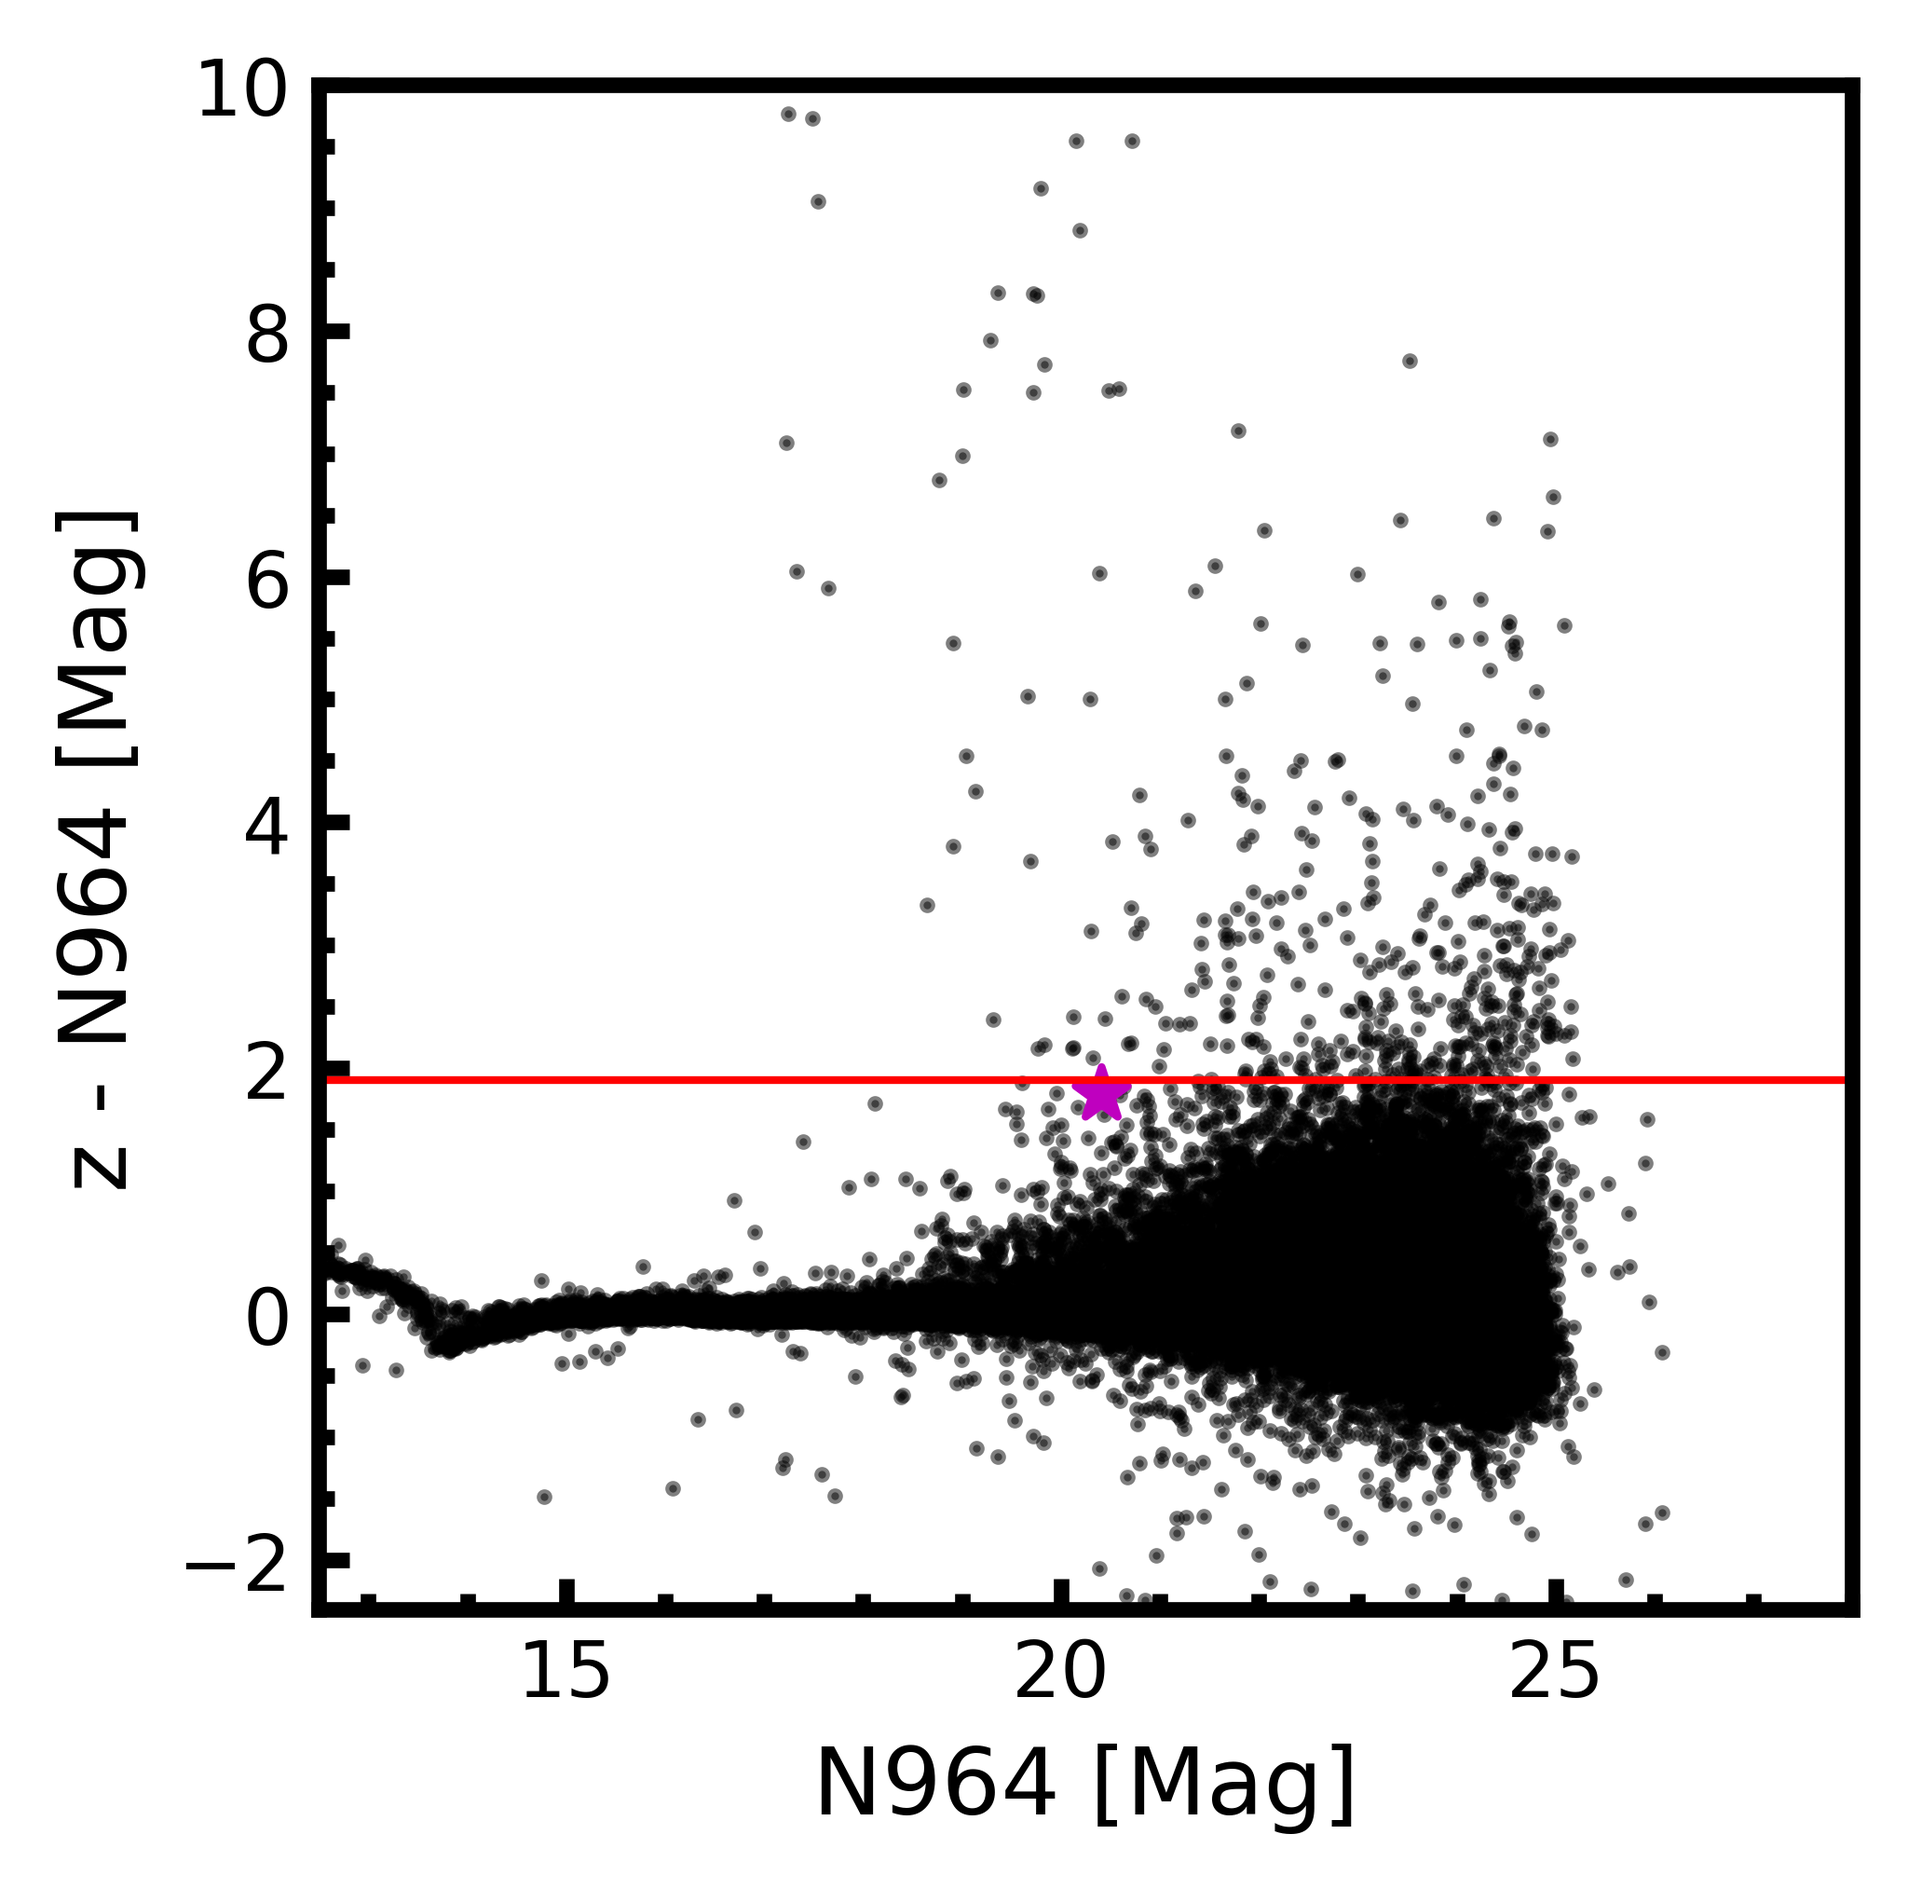
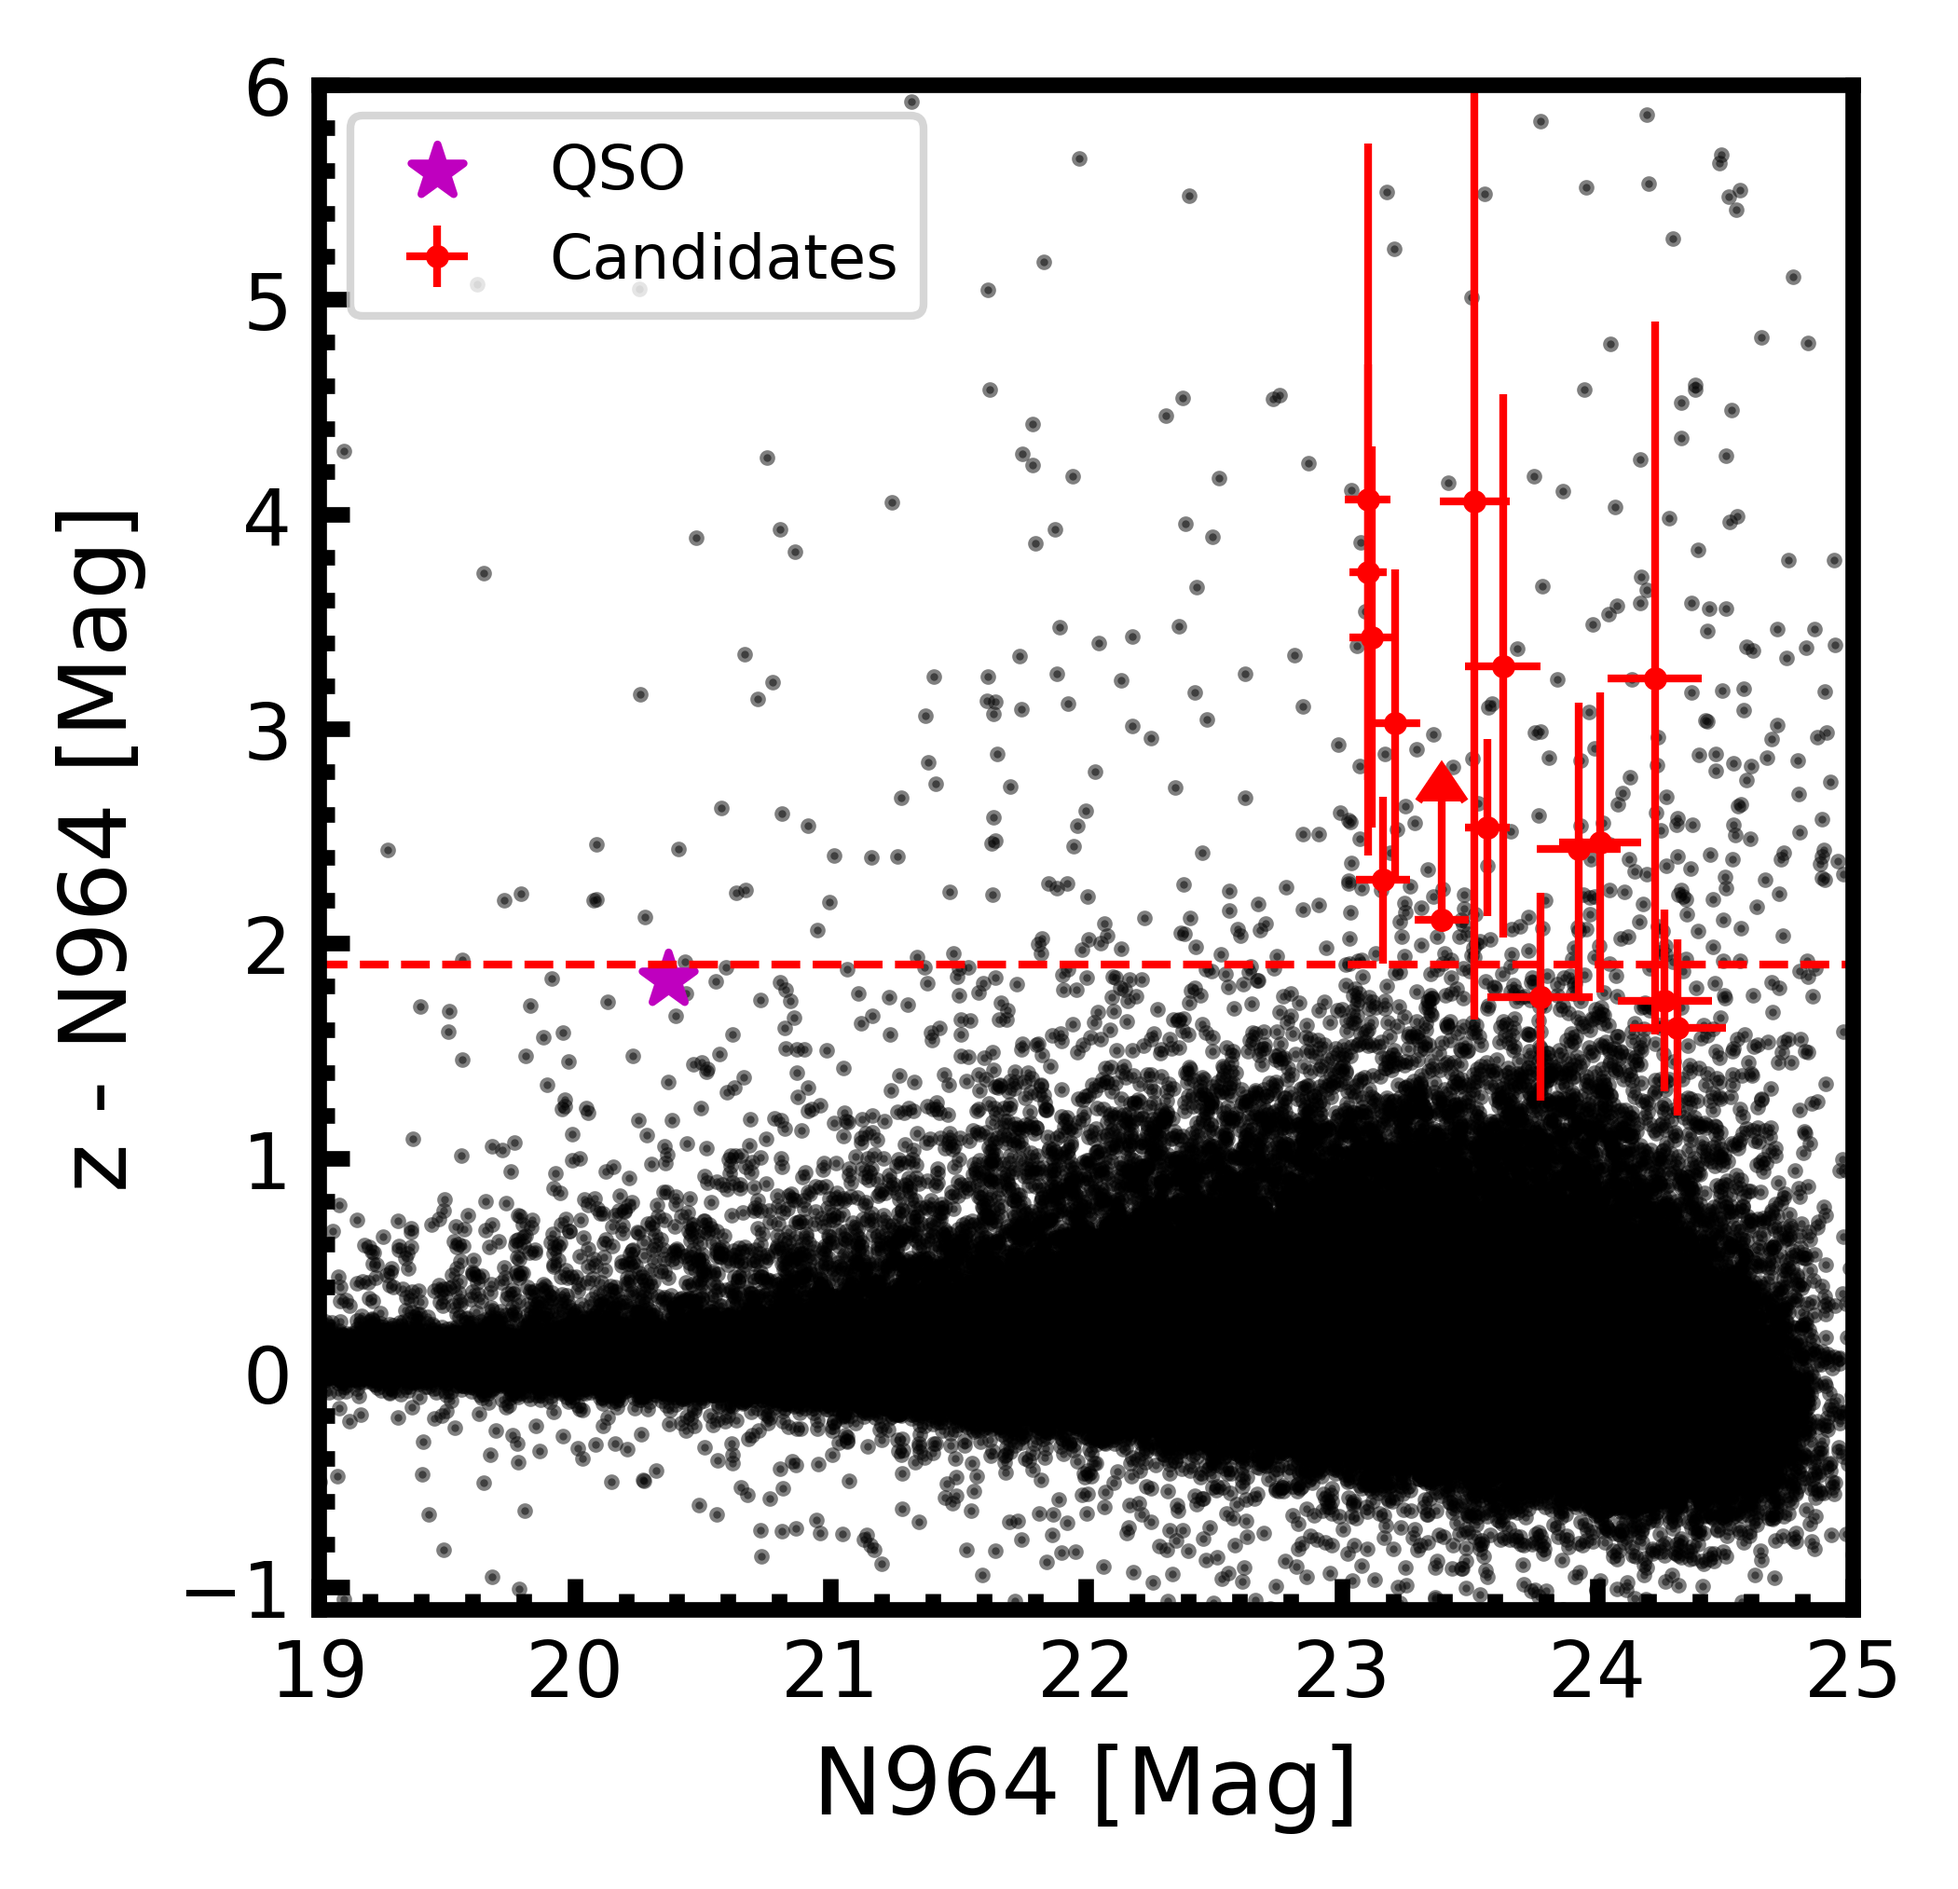
Updated the Hu plot.

diff --git a/hu_2019_plot.py b/hu_2019_plot.py
@@ -15,18 +15,33 @@ mpl.rc('xtick', labelsize=10)
 mpl.rc('ytick', labelsize=10)
 
 
-
-
-def read_in_test_cats(file_name: str):
+def read_in_cats(file_name: str):
     """read in the test cats for DECCAM"""
-    ra, dec, mag = np.loadtxt(file_name, unpack=True, usecols=(0, 1, 4))
-    return ra, dec, mag
-
+    ra, dec, mag, mag_err = np.loadtxt(file_name, unpack=True, usecols=(0, 1, 4, 5))
+    non_detections = np.where(mag == 99)[0]
+    detections = np.where(mag != 99)[0]
+    
+    mag[detections] = mag[detections] + MAG_ZPTS[FILES[file_name]]
+    mag_err[non_detections] = (2.5/np.log(10)) / 2 #factor of two is just for aesthitics
+    
+    return ra, dec , mag, mag_err
 
 MAG_ZPTS = {
     'z': 30.538,
-    'n964': 29.012,
+    'n964': 28.97,
     'i': 30.870,
+}
+
+LIMITING_MAGS = {
+    '../correct_stacks/N964/z.cat': 25.5,
+    '../correct_stacks/N964/i.cat': 25.5,
+    '../correct_stacks/N964/n964.cat': 25.0
+}
+
+FILES = {
+    '../correct_stacks/N964/z.cat': 'z',
+    '../correct_stacks/N964/n964.cat': 'n964',
+    '../correct_stacks/N964/i.cat': 'i'
 }
 
 if __name__ == '__main__':
@@ -35,53 +50,68 @@ if __name__ == '__main__':
     I_FILE = '../correct_stacks/N964/i.cat'
     RA_QSO = (23 + (48/60) + (33.34/3600)) * (360/24)
     DEC_QSO = (30 + (54/60) + (10.0/3600)) * -1
+    CANDIDATE_FILE = 'candidates.txt'
 
-    i_ra, i_dec, i_mag = read_in_test_cats(I_FILE)
-    z_ra, z_dec, z_mag = read_in_test_cats(Z_FILE)
-    n_ra, n_dec, n_mag = read_in_test_cats(N_FILE)
+    candidates_ra, candidates_dec = np.loadtxt(CANDIDATE_FILE, usecols=(1,2), unpack=True)
 
-    z_mag += MAG_ZPTS['z']
-    n_mag += MAG_ZPTS['n964']
-    i_mag += MAG_ZPTS['i']
+    i_ra, i_dec, i_mag, i_mag_err = read_in_cats(I_FILE)
+    z_ra, z_dec, z_mag, z_mag_err = read_in_cats(Z_FILE)
+    n_ra, n_dec, n_mag, n_mag_err = read_in_cats(N_FILE)
 
     catalog = SkyCoord(ra = n_ra*u.deg, dec = n_dec*u.deg)
-    c = SkyCoord(ra = RA_QSO * u.deg, dec = DEC_QSO * u.deg)
+    c = SkyCoord(ra = RA_QSO*u.deg, dec = DEC_QSO*u.deg)
     idx, d2d, _ = c.match_to_catalog_sky(catalog)
 
-    print(i_ra[idx], i_dec[idx])
-    print(d2d)
-    print(RA_QSO, DEC_QSO)
-    print('i: ', i_mag[idx])
-    print('z: ', z_mag[idx])
-    print('n964: ',n_mag[idx])
-    print('--------------')
-    print('i - n964: ', i_mag[idx] - n_mag[idx])
-    print('i - z: ', i_mag[idx] - z_mag[idx])
-    print('z - n964: ', z_mag[idx] - n_mag[idx])
+    c_candidates = SkyCoord(ra = candidates_ra*u.deg, dec = candidates_dec*u.deg)
+    idx_candidates, d2d_candidates, _ = c_candidates.match_to_catalog_sky(catalog)
+
+    non_detections_z = np.where(z_mag[idx_candidates] == 99)[0]
+    non_detections_i = np.where(i_mag[idx_candidates] == 99)[0]
 
 
     # Making the Hu plots
     plotting.start_plot('N964 [Mag]', 'z - N964 [Mag]')
     plt.scatter(n_mag, z_mag - n_mag, s=1, color='k', alpha=0.5)
-    plt.scatter(n_mag[idx], z_mag[idx] - n_mag[idx], marker='*', s=50, color='m')
-    plt.xlim(12.5, 28)
-    plt.ylim(-2.4,10)
-    plt.axhline(1.9, color='r', lw=1)
+    plt.scatter(n_mag[idx], z_mag[idx] - n_mag[idx], marker='*', s=50, color='m', label='QSO')
+    plt.errorbar(n_mag[idx_candidates], z_mag[idx_candidates] - n_mag[idx_candidates],
+                  color='r', xerr=n_mag_err[idx_candidates],
+                yerr=np.hypot(n_mag_err[idx_candidates], z_mag_err[idx_candidates]), fmt='o', ms=2, elinewidth=1, label = 'Candidates')
+
+    plt.errorbar(n_mag[idx_candidates][non_detections_z], LIMITING_MAGS[Z_FILE] - n_mag[idx_candidates][non_detections_z],
+                  color='r', xerr=n_mag_err[idx_candidates][non_detections_z],
+                yerr=np.hypot(n_mag_err[idx_candidates][non_detections_z], z_mag_err[idx_candidates][non_detections_z]),
+                fmt='o', ms=2, elinewidth=1, lolims=True)
+    plt.xlim(19, 25)
+    plt.ylim(-1.1,6)
+    plt.axhline(1.9, color='r', lw=1, ls='--')
+    plt.legend(fontsize=8, loc=2)
     plotting.end_plot('plots/hu_plot_z.png')
 
     plotting.start_plot('N964 [Mag]', 'i - N964 [Mag]')
     plt.scatter(n_mag, i_mag - n_mag, s=1, color='k', alpha=0.5)
-    plt.scatter(n_mag[idx], i_mag[idx] - n_mag[idx], marker='*', s=50, color='m')
-    plt.xlim(12.5, 28)
-    plt.ylim(-2.4,10)
-    plt.axhline(0.8, color='r', lw=1)
+    plt.scatter(n_mag[idx], LIMITING_MAGS[I_FILE] - n_mag[idx], marker='*', s=50, color='m', label = 'QSO')
+    plt.errorbar(n_mag[idx_candidates], i_mag[idx_candidates] - n_mag[idx_candidates],
+                  color='r', xerr=n_mag_err[idx_candidates],
+                yerr=np.hypot(n_mag_err[idx_candidates], i_mag_err[idx_candidates]), fmt='o', ms=2, elinewidth=1, label='Candidates')
+
+    plt.errorbar(n_mag[idx_candidates][non_detections_i], LIMITING_MAGS[I_FILE] - n_mag[idx_candidates][non_detections_i],
+                  color='r', xerr=n_mag_err[idx_candidates][non_detections_i],
+                yerr=np.hypot(n_mag_err[idx_candidates][non_detections_i], i_mag_err[idx_candidates][non_detections_i]),
+                fmt='o', ms=2, elinewidth=1, lolims=True)
+
+    #plt.xlim(12.5, 28)
+    plt.xlim(19, 25)
+    plt.ylim(-1.1,10)
+    plt.axhline(0.8, color='r', lw=1, ls='--')
+    plt.legend(fontsize=8, loc=2)
     plotting.end_plot('plots/hu_plot_i.png')
-    plt.show()
+    
 
-
-    fig, ax = plt.subplots()
+    # Interactive plot that we can click and see what the galaxies look like.
+    '''fig, ax = plt.subplots()
     coll = ax.scatter(n_mag, z_mag - n_mag, s=1, color='k', alpha=0.5, picker = True)
     ax.scatter(n_mag[idx], z_mag[idx] - n_mag[idx], marker='*', s=100, color='m')
+    plt.scatter(n_mag[idx_candidates], z_mag[idx_candidates] - n_mag[idx_candidates], s = 20, color='r')
     ax.set_xlim(12.5, 28)
     ax.set_ylim(-2.4, 10)
 
@@ -94,4 +124,17 @@ if __name__ == '__main__':
 
 
     fig.canvas.mpl_connect('pick_event', on_pick)
-    plt.show()
+    plt.show()'''
+
+    # plotting the magnitude values of the quasar itself.
+    # comparison to the theoretical values from synphot
+    '''print(i_ra[idx], i_dec[idx])
+    print(d2d)
+    print(RA_QSO, DEC_QSO)
+    print('i: ', i_mag[idx])
+    print('z: ', z_mag[idx])
+    print('n964: ',n_mag[idx])
+    print('--------------')
+    print('i - n964: ', i_mag[idx] - n_mag[idx])
+    print('i - z: ', i_mag[idx] - z_mag[idx])
+    print('z - n964: ', z_mag[idx] - n_mag[idx])'''
